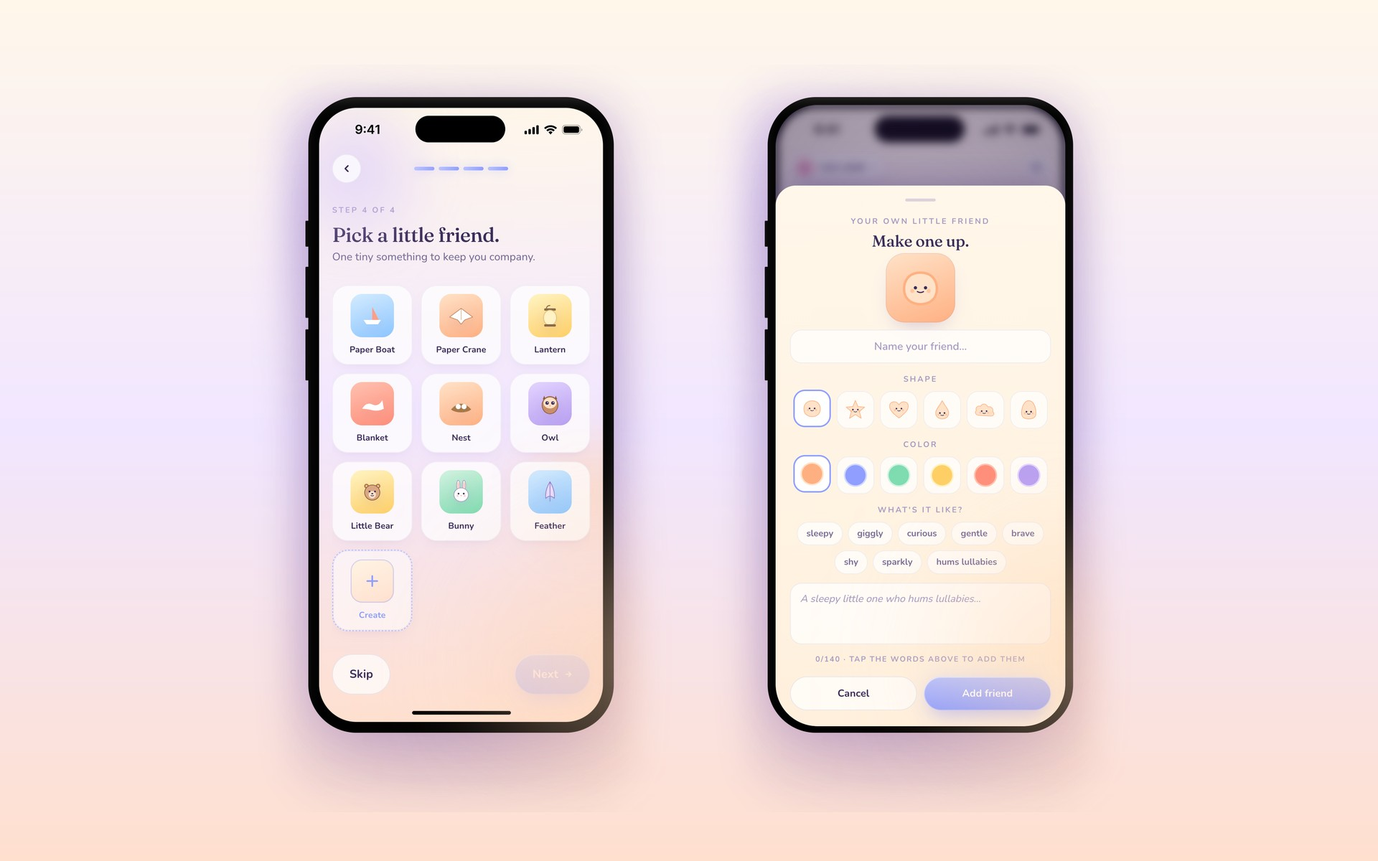
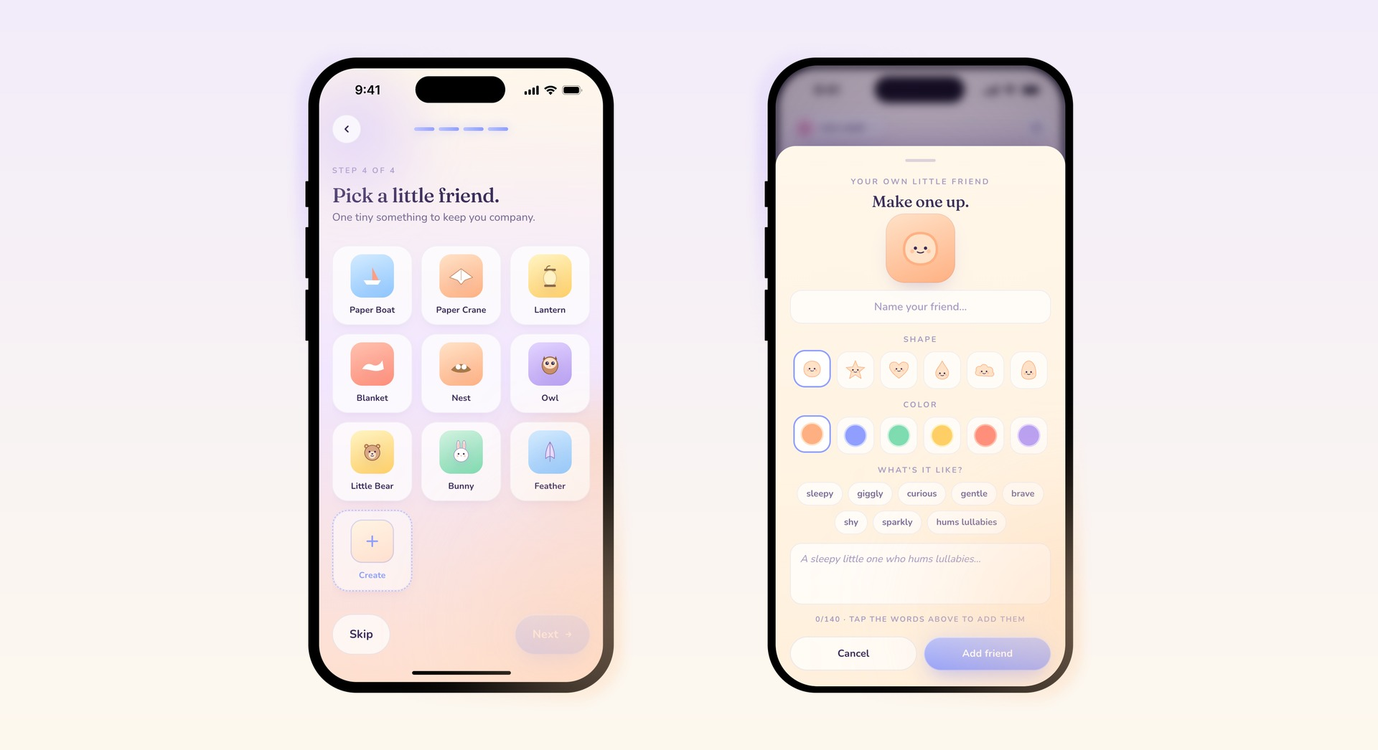
StoryBloom plates: quiet pale backdrop, nothing outside the bezel
Per Chang's reference: shadowless captures (the purple drop-shadow glow is
killed at the source), a tight mask at the bezel edge, and a barely-there
lavender-to-cream ground in place of the three-stop wash. Pixel-verified
clean 40px off every phone edge.

Changed region(s): [[0.0, 0.0612, 1.0, 1.0], [0.2188, 0.0612, 0.4688, 0.2141]]

diff --git a/CLAUDE.md b/CLAUDE.md
@@ -19,7 +19,7 @@ Product designer portfolio. Static HTML/CSS/JS site (no framework). Dark mode, m
 - `ticker.html` — TickerPulse case study. **No longer linked from the home grid as of 2026-06-14** (the home card was removed and its 5 final-design wireframes moved to the Play page). The page still exists and renders, but nothing links to it now (the only `ticker.html` reference left anywhere is its own `og:url` self-tag) — it's reachable only by direct URL. **User chose to leave it unlinked (2026-06-14)** — this is deliberate, not an oversight; do NOT re-link it from home or Play unless the user asks.
 - `nova.html` — UNICEF NOVA case study (linked from the home grid as of 2026-05-10). Visuals are pulled from the framer reference site at `aware-acknowledge-592065.framer.app/nova` and stored as `images/nova-*.png`. **Cover optimized 2026-06-20 (load-speed pass):** the cover is now `images/nova-hero-unigirl.jpg` (1920px, JPEG q90, 349KB) — it was `nova-hero-unigirl.png` at **10448px / 28MB(!)** but displays at ≤960px, so it was downscaled to ~1920px (= 2× the display size) and converted PNG→JPEG via `sips -Z 1920 -s format jpeg -s formatOptions 90`; the 28MB PNG was deleted and the `<img>` src updated. **Full-page image optimization 2026-06-21 (load-speed pass, per user "images majorly large, loading too long"):** the whole page's image payload went **~154.7MB → 14.6MB (−90.5%)**. Audit found ~40 images, most 3840–7680px wide (one 10180px / 16.5MB!) but displaying at ≤960px, most as PNGs of photographic AR/app screenshots. Applied a real-transparency check via PIL (`alpha.getextrema()[0] < 250` — `sips -g hasAlpha` only reports the *channel*, not whether any pixel is actually transparent; most were opaque RGBA), then: **opaque PNGs → JPEG @ ≤1920px q90** (27 files, refs in nova.html updated `.png`→`.jpg`, old PNGs deleted — e.g. `nova-companion-dashboard` 4.6MB/7680×4320 → 0.17MB); **genuinely-transparent → kept PNG, downscaled** (2 partner logos to 220px tall, 3 `nova-c2-*` phone screens, `nova-mascot-exploration` 16.5MB→0.76MB on its #E5E5E5 panel, 3 `nova-research-*`); **recompressed in place** the two heavy comps (`nova-comp-meta-orion.webp`, `nova-comp-apple-roadmap.jpeg`, ~2MB→~0.2MB each). Verified in preview: all 41 imgs load, 0 broken, logos/HUD-text/mascot all visually clean. **Cache caveat:** the 27 renamed JPGs get fresh URLs, but the in-place recompressed files (logos, c2, comps, mascot-exploration, research) keep their filenames, so returning visitors may serve stale cached big versions until cache expires — add `?v=` if that matters. **`og-image.jpg` kept** (it's the share card). **The "still oversized elsewhere" items were RESOLVED 2026-07-25:** `coffeecover.png` (20896px/3.9MB — so large PIL's decompression-bomb guard refuses it; opened with `Image.MAX_IMAGE_PIXELS = None` for the alpha check, converted via sips) → `coffeecover.jpg` 1920px q90 **0.13MB** (ref updated in coffee.html), and `pollen-cover.jpg` downscaled in place (see the pollen.html bullet). nova.html + coffee.html also got the below-fold `loading="lazy" decoding="async"` pass the same day (covers stay eager), and index.html's Homewise card img dropped its incorrect `loading="lazy"` (row-1 = eager per the card-image convention). Downscaling to ~1920px (= 2× the ≤960px display) is compatible with the [[feedback_image_quality]] JPEG-100/PNG-lossless rule — at 2× display size the quality loss is invisible; it only drops resolution the screen physically can't show.
 - `homewise.html` — Homewise case study (added 2026-06-12; clean URL `/homewise` via vercel.json rewrite). **Built to a NEW format per Chang's mentor — short storytelling + outcome-based motion artifacts, ending on the outcome** (see the case-study-format memory) — deliberately lighter than the older nova/pollen/ticker text template. Cover is `images/homewise-cover.jpg` (now contained via `.case-cover` — see the Case-study cover note) (the apples-to-apples quote-comparison screen framed on a sage Hearth background, a 20896px design-tool export downscaled to 2400px JPEG 100; replaced the original dashed-placeholder `.hw-cover` div, which was deleted from style.css 2026-06-12). Spine: Problem (VOC-grounded, expanded 2026-06-13 from a thin version: the layered pain — social trust → word of mouth runs out → communication grind → uncomparable quotes — plus a `.voc-quotes` block of 3 real interview quotes tagged Discovery/Transparency/Effort) → Insight (the "$250→$7,000 same-job quote spread" reframe, built as a real CSS graphic `.hw-spread`; body cites Interview #1, who described the product unprompted) → Solution (reshaped 2026-06-13 to a **TickerPulse-style conceptual block** — heading "An agent that scopes the job before it shops it" + a paragraph + a 3-step `.compare-table` (Scope / Match / Compare); no clips here) → **Final Design** (new `#final-design` section, added to the side-nav, that holds the 4 walkthrough clips in order: **define scope → one scope, every contractor (send) → find the contractor (system surfaces verified/recommended matches) → compare-&-approve (pick who to collaborate with)**; first clip's caption is the section's h2, the rest are `.deliverable` h4s, mirroring ticker's Final Design). The contractor-match beat was added 2026-06-12 after the user flagged it missing — it's the on-thesis trust step, mapping to VOC Finding 1 "Recommended by N Homewisers" social proof + Finding 4 "Verified by Homewise"; the separate quote-compare and approval-gate beats were merged into one. (Beat order was iterated live with the user 2026-06-12; the two shipped clips — homewise-scope.mp4, homewise-contractors.mp4 — lead as steps 1–2, the two placeholders follow.) → Hearth design system (a `hw-clip` **walkthrough clip** `images/homewise-hearth.mp4` of the live `/designsystem` page — replaced an earlier CSS color-swatch grid `.hw-hearth` 2026-06-12, whose CSS was deleted from style.css; the section keeps a short paragraph sourced from the repo's `DESIGN.md`: sans-only, shadowless, tri-role color story trust/caution/info, drift linter; the section also carries a `.hw-cta` button → the live `/designsystem` page) → **Collaboration** (`#collaboration`, in the side-nav, added 2026-06-13: the **code-first / no-Figma** story — the team worked closely with the PM and engineers, skipped Figma entirely, and designed in the codebase (a real React prototype on Hearth) instead of static mockups, then handed the dev team the repo itself so they could stand up their own front-end environment and integrate the real backend + APIs. Heading "We skipped Figma and built the design in code." Because of this, the project-details **Tools list deliberately omits Figma** (`React + Tailwind / Claude Code` only) — keep it that way for consistency. **Figma-MCP handoff paragraph added 2026-06-20:** a 2nd `<p>` says skipping Figma did not close the door on it — if the team needs a traditional Figma handoff, Chang can push the prototype from Claude Code into Figma via Figma's MCP server (kept capability-level in the prose, not naming the tool; grounded in research — `generate_figma_design`, the **Feb-17-2026 Claude-Code-exclusive** MCP tool that captures a running UI back into Figma as editable frames; the server is now bidirectional). HTML-only, no version bump. This does NOT contradict the Tools-omits-Figma rule: Figma still was not used to *build* Homewise; the MCP handoff is an on-demand option, not a tool in the stack. Carries a `.hw-cta` button → the repo `github.com/chang627627/homewise`. Note: linking the repo **inside a case study** like this is fine and intended — distinct from the work-card rule that *cards* never link to repos) → Reflection. **No separate Outcome section** (merged 2026-06-13): the outcome — an "A working prototype, not a mockup" closing `.deliverable` + the lone live-prototype CTA (`.hw-cta` → homewise-rust.vercel.app) — sits at the **end of the Final Design section**. (Copy consistently calls Homewise a *prototype*, not a product — it's what was handed to the front-end team to build the real product from; the repo is explicitly a no-backend prototype.) Final section order: Problem · Insight · Solution · **Process** · Final Design (ends on the outcome + live CTA) · Design System · Collaboration · Reflection. **Process section (`#process` + side-nav link, added 2026-06-19, sits after Solution):** the AI-era build-first story. Heading "I designed it by building it" + **one** paragraph (merged from two per user): the traditional discovery→mockups→handoff→build flow is dead, so Chang flipped the order — align with the PM, build, iterate on real feedback from team + users, with Claude Code as a thinking partner weighing each design exploration's pros/cons ("Less time making mockups, more time on the calls only a person can make"). Visualized by **two `.flow-chart` SVG blocks reusing Coffee Chat's `.flow-chart`/`.flow-svg`/`.flow-box`/`.flow-chart-tags` pattern (NO new CSS):** "The traditional process" (linear Discovery→Research→Mockups→Handoff→Build, ✕ tags) vs "How I work now" (Align with PM → Build → Feedback → Iterate, with a **right-angle, NOT curved** loop-back arrow Iterate→Build labeled "repeat until it is right", ✓ tags incl "Claude Code weighs each option"; the Build box is inline-highlighted brighter). **"chat with PM" was rejected as too casual → "Align with PM" (user) — keep it.** Closes with an inline credit to **Jenny Wen** (Head of Design for Claude at Anthropic), linked to her Lenny's Podcast episode "The design process is dead" (`lennysnewsletter.com/p/the-design-process-is-dead`); the inline `<a>` carries an inline `style` (color `var(--text)` + a 0.35-white underline) because case-study prose has no default inline-link affordance. **Mobile fix (applied 2026-06-19, supersedes the earlier "NOT yet fixed" caveat):** the SVG flow-charts scale to page width, so box labels dropped to ~3.3px on phones (same limitation as Coffee Chat's flow-charts). Fixed by wrapping each chart's `<svg>` in a `.flow-scroll` div and adding an inline `<style>` in homewise.html's `<head>` that, **on mobile (≤768px) only**, gives `#process ~ .flow-chart .flow-scroll` `overflow-x:auto` + `overflow-y:hidden` (the explicit `hidden` dodges the overflow-x-forces-overflow-y-auto gotcha) + a thin styled scrollbar, and holds `.flow-svg` at `min-width:800px`. Result: labels render ~9.2px and each chart scrolls horizontally **within its own strip** — the page itself does NOT overflow (verified), and the cut-off right edge + scrollbar thumb are the swipe affordance. **Desktop is untouched** (rules are media-gated, so `.flow-scroll` is a transparent passthrough div there and the SVG still fills the full card). **Homewise-scoped on purpose** (inline in homewise.html, NOT style.css), so Coffee Chat's shared `.flow-chart` is unaffected and still has the tiny-label issue. HTML-only — no style.css change, no version bump. **Process paragraph trimmed same day (per user "too long"): 144→102 words** — cut the prose that re-narrated the two charts' steps (the charts already show Discovery→…→Build and Align with PM→…→Iterate); kept the reframe, the "more time on the calls only a person can make" punchline, and a shortened Jenny Wen credit (dropped "at Anthropic"). Reflection carries two beats: a project insight ("Trust was the hard part, not the automation") + the Claude-Code-first-build/handoff takeaway. Content grounded in the repo's real VOC research (github.com/chang627627/homewise, `docs/` synthesis PDFs). **Clips complete (2026-06-12):** all 4 flow clips are live — `images/homewise-scope.mp4` ("Define the scope"), `images/homewise-contractors.mp4` ("One scope, every contractor"), `images/homewise-match.mp4` ("A match you can trust" — the 3-contractors-side-by-side matching screen with Verified/FLAGGED badges), `images/homewise-compare.mp4` ("Compare apples to apples, then you sign off" — the "Quotes are in" 3-bid same-scope comparison); no `.img-placeholder` boxes remain. A 5th `hw-clip`, `images/homewise-hearth.mp4`, sits in the Design System section (walkthrough of the live /designsystem page). Each live clip is wrapped in `<div class="hw-clip project-img-full">` containing the `<video loop muted playsinline preload="metadata">` plus a `.hw-clip-progress > .hw-clip-progress-bar` **playback progress bar** (thin 4px bar pinned to the video's bottom edge so viewers see start/end and position; the wrapper's `overflow:hidden` + radius clips it to the rounded corners). The inline script before the chat widget does two things per clip: drives the progress bar via rAF (tied to play/pause so it's smooth and resets cleanly on loop) and runs play.html's IntersectionObserver to defer play to the viewport. The `project-img-full` class on the **wrapper** gives the clip the same 24px caption→artifact / 96px artifact→next spacing as the case-study images (the `.img-placeholder` adjacency rules were added to style.css for the same reason). All 5 clips (4 flow + the Hearth walkthrough) use this exact `hw-clip` wrapper. **Clip conversion (no ffmpeg on this machine):** screen-recordings are H.264 Retina .mov (~3456px, ~40MB); transcode with Apple's `avconvert -s in.mov -o images/<name>.mp4 -p Preset1920x1080 --replace` (H.264, NOT the HEVC presets — poor browser support; → ~1920px, ~15MB, fast-start). Videos live in `images/`. **The home card links here** (`href="homewise.html"`) as of 2026-06-12, once all 5 clips landed (it previously pointed at the live demo). Homewise-specific CSS is the `hw-` block at the end of style.css; page chrome stays portfolio-dark while artifacts carry Hearth's warm palette. style.css bumped to v=115 on this page. **Enriched from the Demo Day pitch deck (2026-06-17, source `homewise-pitch.vercel.app` — the PM Accelerator AI Bootcamp deck for the same product):** added, without breaking the lean format — (a) a `.hw-stats` market-stat band in the Problem after `.voc-quotes` (label "Beyond our eight interviews"; 70% fear an unreliable contractor / 41% deceived by a provider / 33% delay repairs; source "Leaf Home / Morning Consult, 2025. HomeServe, 2025." — a dark panel, sibling of `.hw-spread`; the warm `#B98132` top-accent bars on each stat were **removed 2026-06-17** as meaningless decoration per the user, so the numbers stand alone; the `.hw-stats + .project-section { margin-top:96px }` rule re-asserts the Problem→Insight gap that `.voc-quotes + .project-section` used to give); (b) the trust split "14% trust review platforms, 61% word of mouth" woven into the Problem intro; (c) **[added then removed same day, 2026-06-17, per user — do NOT re-add]** a `.hw-flow` map (Photo → Scope → Match → Quotes → Booked) briefly opened Final Design above the first clip; the user deleted it (the four clips already walk the flow) and its CSS was removed; (d) verification specifics in the "match you can trust" caption (license, insurance, real permit history); (e) a Collaboration sentence naming what the prototype became (Claude vision, Shovels.ai permits, Twilio); (f) a Reflection beat "trust is a data problem as much as an AI one"; (g) sidebar engineers 5→7 (it was a 13-person team: 3 PM / 3 design / 7 eng — user kept the "Lead Product Designer" framing). **Deliberately skipped** to protect the lean format: the 3 pitch personas (David/Maya/Ray) and the full architecture diagram. The Insight copy was left as-is (already lands the symptom/cause point). style.css bumped v=160→v=161. **Problem + Solution rework + two videos (2026-06-17 — SUPERSEDES the stat-band "numbers stand alone", the 14%/61% "woven into the Problem intro", the `.hw-flow`, and the "All 5 clips" notes above):** (1) **Problem VOC → scannable pain-point cards** via a homewise-only modifier `.voc-quotes--pain` (so TickerPulse's shared `.voc-quotes` is untouched): each card leads with a white pain **headline** ("No way to know who to trust" / "No benchmark for a fair price" / "Comparing quotes is exhausting") and demotes the real interview quote below it to muted italic evidence (single-weight font, so the hierarchy is color+size, not bold). Intro lead-in changed "Three phrases" → "Three frustrations". (2) **Market stats are now THREE CARDS** (`.hw-stats` → `.hw-stat` styled exactly like the voc-quote cards: `var(--surface)` bg, 1px border, radius, 3-col grid, 44px figures). Iterated boxed-with-warm-`#B98132`-accent-bars → user called the bars "meaningless" (removed) and the box "ugly" → boxless editorial → **three cards** (final, per user "need three card for these"). Do NOT reintroduce the bars or the single box. (3) **Inline 14%/61% trust stat REMOVED** from the Problem prose (redundant with the surrounding word-of-mouth sentences; user: "either don't need the data or card it" → removed). (4) **Solution enriched** (grounded in the repo `github.com/chang627627/homewise`, whose README confirms a structured **state machine, not a chatbot**: Intake→Scope→Contractor compare→Quote compare→Booking→Completion): added a "two things make hiring hard, neither is the automation… so we built a structured workflow instead of a chatbot" rationale paragraph; refined the `.compare-table` to **4 stages — Scope / Match / Compare / Track** ("what the workflow does"); added a **"Why not just a marketplace"** contrast coda in `.solution-coda` (pulled to 44px top-margin via `.project-content .project-section.solution-coda` to outrank the `.compare-table + .project-section` 96px rule). **Trimmed 2026-06-18 (portfolio-audit pacing pass — shorten the runway to the Final Design clips):** the "two things" paragraph was cut from 4 sentences to 2 (kept the "structured workflow, not a chatbot" differentiator, dropped the table-overlapping recap), and the `.solution-coda` "Why not a marketplace" paragraph was **REMOVED** so the `.compare-table` now hands straight off to the Final Design clips. The `.solution-coda` CSS rule is now **unused** (left in style.css; restoring the coda is a one-line HTML re-add). The "What I did" bullets and the Problem intro were deliberately KEPT — on a close read they earn their length (distinct ownership beats / the layered-pain narrative), so the pacing fix was scoped to the Solution only. (5) **Final Design got a 5th flow clip** `images/homewise-track.mp4` ("One place, from booking to done", after Compare) — the **prototype's** dashboard status-tracking flow — so there are now **6 `hw-clip` videos (5 flow + the Hearth walkthrough)**. (6) **Collaboration got the live/backend demo** `images/homewise-live.mp4` — the dev team's **shipped build** (~4-min walkthrough), captioned "See it running for real", embedded **click-to-play** (`controls preload="none" poster="images/homewise-live-poster.jpg" playsinline`), NOT the looping `hw-clip` treatment, and **excluded from the clip auto-play script** (which targets `video[preload="metadata"]` only) so its 39MB never auto-loads. Poster grabbed via `qlmanage -t`. Its on-screen account/address are **fake demo data (confirmed by user)** — no real PII. **Deliberate split (per user):** the Track clip (prototype) lives in Final Design; the live demo (real backend) lives in Collaboration as the "what shipped" proof. **Provenance for honesty:** Chang built the front-end prototype + data structures in code; the dev team built the real product on it (front-end eng wired live data/APIs onto his structures, back-end eng built the backend) — so the live demo is his design, shipped. **Video transcode:** `avconvert -s in -o images/<name>.mp4 -p Preset1920x1080 --replace`; macOS Screen Recording filenames use a narrow no-break space before AM/PM, so match the source with a glob, not a literal path. style.css now at **v=167** across all 8 pages. **Copy polish 2026-06-27 (per user, HTML-only, no version bump — SUPERSEDES the Solution/Collaboration/Reflection wording above):** (1) **Solution** — the "structured workflow, not a chatbot" line now justifies the call AND claims ownership, and is **white-highlighted**: `<span style="color: var(--text)">A chatbot would leave them guessing at both, so I pushed for a structured workflow instead.</span>` (the white span pops against the `#888` `.project-section p` body; in user shorthand "highlight X" = make X white, NOT rewrite it). (2) **Collaboration is now ONE merged, shortened paragraph** (was two): code-first build + repo handoff + the Figma-MCP option live in a single `<p>`; the 2026-06-17 "(e)" sentence naming what the prototype became (Claude vision / Shovels.ai permits / Twilio) was **DELETED per user** — those tool names no longer appear anywhere on the page. (3) **Reflection shortened to ONE paragraph** (was two): keeps the trust-is-the-hard-part + trust-is-a-data-problem beats and the Claude-Code-build / "It was the first version of it" close; dropped the "were not features… earned the right to act" line and the redundant handoff recap. These edits came out of a multi-lens gap review of the case study (the user asked "what's missing"); the other flagged gaps — a real research artifact for the $250→$7,000 spread, and a qualitative "did it land" validation beat — were surfaced but NOT done (both need real content only Chang has; **declined to fabricate a usability-test homeowner quote** for the validation beat — fake research evidence on a hiring portfolio backfires if probed in an interview). **(4) Process section grounded to Homewise 2026-06-27 (review gap #4, option b — kept placement, added one sentence):** after the build-first method statement, added "Homewise especially called for this, because it is one connected workflow where a single change ripples through scope, matching, quotes, and tracking, so I had to build it and validate it early rather than trust static mocks that could not show whether the whole thing held together." Per the user's rationale (interdependent state-machine workflow → validate early by building, not isolated mocks). Converts Process from a generic "design process is dead" manifesto into a why-build-first-*here* argument; flow-charts + placement unchanged. The review's two unactioned options — move Process *after* Final Design (option a), or add the *agent's scope-generation/approval-gates can't be felt in a static mock* angle — were not taken; the connected-workflow rationale was the user's pick. **(5) Sub-heading scannability pass 2026-06-27 (per user):** two h2s reworded so each carries its own beat on a skim (SUPERSEDES the heading strings quoted above). Design System: "Hearth, the warmth at the center of every home" → **"Hearth, one warm system across every screen"** (the old metaphor was about the product's *domain*, didn't signal "design system" when skimmed — it was the one heading that failed the scan test). Process: "I designed it by building it" → **"I flipped the process and designed by building"** (elaborates the reframe and echoes the body's "I flipped the order"). The other ~10 headings were judged already-scannable and left as-is — they're insight-statements, not generic labels, so skimming the h2 stack alone tells the whole story. **(6) Process — PM/PRD collaboration beat added, then re-tightened 2026-06-27 (per user; SUPERSEDES item (4)'s quoted sentence and the 144→102-word note for the *current* Process paragraph text):** the user asked what real PM↔designer collaboration looks like (the PRD as the shared artifact) so it could be written into Process. Added a condensed PRD beat that grounds the otherwise-vague **"Align with PM"** flow box: *"Each loop starts from the PM's PRD, our shared intent: the problem, the users, and the metrics to move. The prototype exposes gaps the document cannot, which feed back into the PRD."* The bidirectional loop (prototype surfaces gaps → back into the PRD) is the deliberate sophistication, and it counters the traditional-chart's own "spec thrown over the wall" critique. Adding it pushed the paragraph to ~155 words; user said "way too long," so the **whole paragraph was rewritten to ~124 words**, cutting the parts the two flow-charts already show: "In 2026 that is backwards", the "build first, then iterate on real feedback, with Claude Code weighing each exploration" mechanics (= the "How I work now" chart's Build→Feedback→Iterate + "Claude Code weighs each option" tag), and the "and a build-and-feedback loop replaces it" tail on the Jenny Wen credit. New opener is "Engineering used to be the slow part…"; the connected-workflow sentence is now "Homewise especially needed this, since one change ripples through scope, matching, quotes, and tracking, so I validated it live." (reworded from item (4), same rationale). KEPT the "more time on the calls only a person can make" punchline + the Jenny Wen link. Flow-charts, the "Align with PM" box label, and placement all unchanged — the PRD lives in prose, not the SVG. **Committed + pushed to main (commit c5e3236) — Vercel auto-deploys.** HTML-only, no version bump. Takeaway: the PRD/PM-collaboration belongs in **Process** (it's the input to the build loop), carried in prose with the flow box untouched, and Process stays lean (~120 words). **Mentor-framework pass 2026-07-28 (HTML-only, style.css untouched, no version bump).** Audited against the same framework the deck was rebuilt to (see homewiseslide.html). Verdict: the page had no stakes claim, no beat saying the problem was HARD to design, and the word "principle" appeared zero times — yet all that material was already written, scattered. So the fix was resequencing, not new prose. Shipped: **(1) new `#complexity` section between Insight and Solution** ("Why this is hard" / h2 **promoted verbatim from the Reflection**, "Trust was the hard part, not the automation") holding 3 `.problem-card`s — a user problem (from the old Solution ¶2), a data problem (from the Reflection), one connected system (from Process). Reuses `.problem-grid`/`.problem-card`, so **zero new CSS**; its `+ .project-section { margin-top:96px }` rule supplies the gap to Solution. Side-nav gained a matching `#complexity` link (now 9 links). Process and Reflection were shortened so they stop introducing beats the new section now owns, and **Reflection's h2 became "The design was not a picture of the product"** (lifted from its own unheaded second beat) since its old h2 moved. **(2) The 70/41/33 `.hw-stats` band now LEADS the Problem**, relabelled from "Beyond our eight interviews" (which demoted it to an appendix) to the claim "Most homeowners already expect this to go wrong", so the interviews read as the explanation of a market-scale problem. **(3) Workflow de-duplicated**: `.compare-table`'s column is now "Why the stage exists" with each cell leading with the failure the stage prevents; it previously shared literal strings with captions 400px below. Outcome lost its workflow restatement, and the live-demo caption states the runtime ("four minutes" — measured 4:06 off `videoWidth`-style metadata, not guessed). **(4) "What I did" bullet 1 stopped spoiling the Insight** (dropped "including the reframe from price to scope", which named the Insight's payload 42 lines early). **Three self-inflicted regressions caught and fixed during the pass, all worth remembering:** (a) **NEVER nest an `hw-` block inside a `.project-section`** — the generic `.project-section p { font-size:16px; margin:0 }` is specificity (0,1,1) and outranks `.hw-stats-label`/`.hw-stats-source` (0,1,0), which silently flattened them to 16px with both 24px margins zeroed. `.hw-stats` must stay a top-level sibling; the prose after it carries an inline `margin-top:40px` to beat `.hw-stats + .project-section { margin-top:96px }`. (b) applying several recommendations independently put **"ratings can be gamed" on the page four times** (Problem setup + principle + table cell + Match caption) — the payoff now lands once, in the Match caption, at the screen that resolves it. (c) the audit's rec-2 **named principles block was built then DELETED by the user** ("feel too wordy"): the three rules (structured/verified/recommended, not X) now live folded into the Solution paragraph as prose — "Every step stays checkable: the scope is editable before it goes out, the trust signals are public records rather than ratings, and the agent recommends but never books." **Do NOT re-add a stated-principles list to this page**; the deck keeps its Design-statement slide, and that divergence is intended. **Hero sub reworked 2026-07-28 (audit rec 7, per user):** now "AI command center for homeowners. A third of them put off repairs rather than face hiring someone. It scopes the job, compares the bids, and waits for your approval." The opening clause stays verbatim per the card-continuity rule; the tail leads with the **stake** (the sourced 33% stat) instead of opening on mechanics that echoed the home card. **Deviation from the audit, deliberate:** the audit specified dropping the mechanics entirely, on the stated grounds that they were "restated at line 198" — but the SAME session's Solution trim deleted that sentence, so `defined scope of work` now appears zero times on the page and **homewise.html has no Overview section**, making the hero sub the only plain statement of what the product does. A naked swap would have left the page never saying it. So a compressed mechanic was kept. **The four meta/og/twitter descriptions were deliberately NOT changed** — they are search and social-preview copy, where a bare stat without context is worse than a plain description of the product. **General lesson: an audit recommendation's rationale can be invalidated by a later edit in the same session; re-check the premise before applying a queued recommendation.** **HITL naming pass 2026-07-31 (per user, from a Substack HITL-design essay):** the page and deck now NAME the pattern the product already implements — "human-in-the-loop" appears exactly twice on the site: in the Solution's white-highlighted sentence (recorded frozen in the audit kills above; **amended with explicit user approval** to "structured, human-in-the-loop workflow") and in the deck's The-human-signs-off card ("Human in the loop, never an autopilot default"). The "Every step stays checkable" clause was recut to the essay's two-gate frame — "you approve the scope before it shops and the hire before it books" (gate-before-the-run + gate-after-the-draft; Homewise already implemented both gates, the page just never claimed the structure). The essay's checklists, autonomy-ladder taxonomy, and edit-rate metric were deliberately NOT imported (no data for the metric — fabrication ban). **A separate HITL section was considered and REJECTED** (user asked 2026-07-31): it is the same shape as the deleted named-principles list, would make an 11th section against the settled 10-section spine, and would centralize an argument that currently pays off at the exact screens proving it. Also note `.project-list` is wrong for any inline rule set here — its `li { padding-left:20px }` pushes text 20px out of alignment with the section's body copy. Body copy ended at ~1432 words (from 1397). **Final Design tradeoff blocks (2026-08-11, per user "do exactly the slides did"; style.css v=229→v=230 across all 9 pages):** each of the five Final Design clips is followed by a `.hw-trade` block in the DECK'S exact grammar — "The tradeoff" eyebrow (label token), two rule-topped `.hw-trade-cols` columns, `.hw-tick--bad/--good` circles in **Hearth pastels** (ember `#F5E4CE`/`#8E601E`, sage `#E2E8DC`/`#4F6942` — per the hw-artifacts-carry-Hearth convention; hairlines stay the page's white-alpha), `.hw-trade-shot` evidence crop, receipt below; mobile stacks to 1 column. Copy is deck-verbatim with ONE deliberate deviation: the match ✓ says "its sources sitting right there in the rows" without re-enumerating license/insurance/permits, because the page's own caption directly above already lists them (the deck's body doesn't). A first port using `.iter-example` (pill-in-figcaption format) was built and replaced the same day per user — the page must mirror the deck's format, not adapt it. **The match caption also dropped "a match confidence"** (honesty fix: the metric exists only in an orphaned component at HEAD and the clip never shows one), and the track caption is "One place, from booking to done" with the original body (a briefly-shipped "from first quote to done" widening was reverted when the user caught its tradeoff arguing about the pre-booking quote-wait screen under the post-booking dashboard clip).
-- `storybloom.html` — **StoryBloom case study (added 2026-08-16, per user "make a case study of github.com/chang627627/StoryBloom, /storybloom but do not connect"). DELIBERATELY UNLINKED: nothing on the site points to it** — not the home grid (the StoryBloom card keeps linking to the live app), not sitemap.xml, not llms.txt, not api/chat.js (mentioning it there would advertise the URL, i.e. connect it). Reachable only by URL via a `/storybloom` rewrite in vercel.json; canonical + og:url are the CLEAN `/storybloom` (coffeeslide precedent, since no internal links exist to prefer the .html form); no noindex (deck precedent, not the ticker one) so shared links unfurl. **When the user says to connect it:** point the home card's href at `storybloom.html`, add to sitemap + llms.txt + the chat prompt, and re-check the hero-sub continuity rule. Structure is the standard case-study skeleton (nav, `.case-cover` = `images/storybloom-card.png?v=4` reused from the home card, hero, side-nav, `.project-details`, sections, back-to-top): side-nav = Problem · Insight · The ritual · One night · Design language · Principles · The goodnight · Reflection; reuses `.impact-grid.grid-2x2` (2 award cards: Red Dot Winner 2026 → the Drive certificate link the StoryBloom app itself uses; NYPDA Silver 2026 → nydesignawards.com/winner-info.php?id=4480), `.problem-grid--2col` (the 4 principles from the Red Dot deck: Invisible AI / Nonverbal first / One of each / Bedtime, not engagement), `.deliverable` captions, and `.hw-cta` → storybloom.tech/app at the end of The goodnight (end-on-outcome). Hero sub opens with the card copy verbatim per the continuity rule. **Narrative is transcribed from the repo's own `_private/red-dot.html` award deck** (problem/insight/ritual/worked-example/design-language/principles/keep) — not invented. **Honesty framing, deliberate:** the One-night section states plainly that ten handwritten templates, two per dreamland, stand in for the model in the working build (the StoryBloom repo's own CLAUDE.md documents the AI framing as product vision; the portfolio's prototype-not-product standard outranks the app's treat-as-real-product rule). Reflection h2 "The design work was the input, not the output". **Page chrome was assembled by copying homewise.html verbatim** — head boilerplate pattern + lines 498-761 (back-to-top, `.page-end` footer, main script with sweep + scroll-spy) and 793-end (chat widget + px-dissolve), EXCLUDING homewise's clip-autoplay script (763-791); the byte-identical shared blocks stay in sync with the homewise copy. No style.css change, no version bump (v=235 links). **The 4 artifacts (`images/storybloom-{picks,night,goodnight,keep}.jpg`, 1920px JPEG q90) are REAL captures of the app, and the pipeline is reusable:** clone the StoryBloom repo to scratch, write `capture.html` = app/index.html + an early-head patch (localStorage star-seeding for the constellation shot, transparent body, chrome hidden, device-wrap scale killed) + a `?shot=` driver before `</body>` (clicks the splash FIRST to consume its 2.8s auto-advance guard — otherwise the splash timer yanks any navigated screen back to Welcome — then sets state/go(n)/setStep(n); the story shot pins `Math.random=()=>0` for the "Goodnight, moon garden" variant and sets lav/rain/tangled/crane per the deck's worked example), serve the clone with python http.server, capture each shot with headless Chrome `--window-size=620,1100 --force-device-scale-factor=2 --default-background-color=00000000 --virtual-time-budget=9000`, then PIL-composite the fixed-geometry crops (bezel at (193,220)-(1047,1980) @2x) onto a recreated app-wash gradient (#fff7ea→#f1e6ff→#ffe0cf). **Gotcha that cost a redo: the crop carries the app's ambient background blobs at low alpha, which tint differently against the recreated wash and draw a visible rectangular seam around every phone — multiply the alpha by a feathered rounded-rect mask (bezel +70/+50/+200px, GaussianBlur 45) so only phone + shadow survive.** Verified desktop + 375 (no overflow, cover insets to 327px, side-nav/back-to-top/footer-big hidden), scroll-spy active, zero console errors, all images serve. **Full-screen-coverage pass same day (per user "please include all the phone screens in these slides", with the two award-deck PDFs from ~/Downloads as the reference):** the page now shows EVERY phone screen from the repo's App Walkthrough deck (the Case Study deck has no phone screens, it is diagrammatic). Four new captures via the same harness (`createfriend` = openCreateFriend(), `shelf` = openShelf() with seeded stars + the app's own demo shelf content, `settings` = openSettings(), `settings2` = openSettings() then sheet scrollTop to bottom) → three new artifacts + one regenerated: `storybloom-welcome.jpg` (invitation single, opens The ritual), `storybloom-friends.jpg` (friend picker + Create-a-Friend sheet, after the picks), `storybloom-keep.jpg` REGENERATED as a 2-up (constellation welcome + Lily's shelf — the old single-phone version is gone), `storybloom-parents.jpg` (both settings positions). **New 9th section `#parent-side` ("The parent side" / "Quiet controls for the grown-up") between The goodnight and Reflection** — prose mirrors the settings sheet's own hint labels (name "used in the story", age "tailors the gentle words", narrator/speed, bedtime toggles, theme chips, skip-scary, all-local no-account) rather than claiming mechanics beyond them; the live CTA stays LAST before Reflection (end-on-outcome preserved). Side-nav is 9 links. Page total: 8 images. **PDF-reading note for this machine: no poppler and no PyObjC, so the Read tool cannot render PDFs — compile a ~40-line swiftc PDFKit renderer (`pdfrender <pdf> <outdir> <scale> [first] [last]`, pattern lives in the session transcript) and Read the PNGs; the harness ALSO misreports PDF page counts wildly (claimed 645/178, real 8/7), so trust PDFKit's pageCount, not the system-reminder.**
+- `storybloom.html` — **StoryBloom case study (added 2026-08-16, per user "make a case study of github.com/chang627627/StoryBloom, /storybloom but do not connect"). DELIBERATELY UNLINKED: nothing on the site points to it** — not the home grid (the StoryBloom card keeps linking to the live app), not sitemap.xml, not llms.txt, not api/chat.js (mentioning it there would advertise the URL, i.e. connect it). Reachable only by URL via a `/storybloom` rewrite in vercel.json; canonical + og:url are the CLEAN `/storybloom` (coffeeslide precedent, since no internal links exist to prefer the .html form); no noindex (deck precedent, not the ticker one) so shared links unfurl. **When the user says to connect it:** point the home card's href at `storybloom.html`, add to sitemap + llms.txt + the chat prompt, and re-check the hero-sub continuity rule. Structure is the standard case-study skeleton (nav, `.case-cover` = `images/storybloom-card.png?v=4` reused from the home card, hero, side-nav, `.project-details`, sections, back-to-top): side-nav = Problem · Insight · The ritual · One night · Design language · Principles · The goodnight · Reflection; reuses `.impact-grid.grid-2x2` (2 award cards: Red Dot Winner 2026 → the Drive certificate link the StoryBloom app itself uses; NYPDA Silver 2026 → nydesignawards.com/winner-info.php?id=4480), `.problem-grid--2col` (the 4 principles from the Red Dot deck: Invisible AI / Nonverbal first / One of each / Bedtime, not engagement), `.deliverable` captions, and `.hw-cta` → storybloom.tech/app at the end of The goodnight (end-on-outcome). Hero sub opens with the card copy verbatim per the continuity rule. **Narrative is transcribed from the repo's own `_private/red-dot.html` award deck** (problem/insight/ritual/worked-example/design-language/principles/keep) — not invented. **Honesty framing, deliberate:** the One-night section states plainly that ten handwritten templates, two per dreamland, stand in for the model in the working build (the StoryBloom repo's own CLAUDE.md documents the AI framing as product vision; the portfolio's prototype-not-product standard outranks the app's treat-as-real-product rule). Reflection h2 "The design work was the input, not the output". **Page chrome was assembled by copying homewise.html verbatim** — head boilerplate pattern + lines 498-761 (back-to-top, `.page-end` footer, main script with sweep + scroll-spy) and 793-end (chat widget + px-dissolve), EXCLUDING homewise's clip-autoplay script (763-791); the byte-identical shared blocks stay in sync with the homewise copy. No style.css change, no version bump (v=235 links). **The 4 artifacts (`images/storybloom-{picks,night,goodnight,keep}.jpg`, 1920px JPEG q90) are REAL captures of the app, and the pipeline is reusable:** clone the StoryBloom repo to scratch, write `capture.html` = app/index.html + an early-head patch (localStorage star-seeding for the constellation shot, transparent body, chrome hidden, device-wrap scale killed) + a `?shot=` driver before `</body>` (clicks the splash FIRST to consume its 2.8s auto-advance guard — otherwise the splash timer yanks any navigated screen back to Welcome — then sets state/go(n)/setStep(n); the story shot pins `Math.random=()=>0` for the "Goodnight, moon garden" variant and sets lav/rain/tangled/crane per the deck's worked example), serve the clone with python http.server, capture each shot with headless Chrome `--window-size=620,1100 --force-device-scale-factor=2 --default-background-color=00000000 --virtual-time-budget=9000`, then PIL-composite the fixed-geometry crops (bezel at (193,220)-(1047,1980) @2x) onto a recreated app-wash gradient (#fff7ea→#f1e6ff→#ffe0cf). **Plate decision, iterated three times 2026-08-16 and now SETTLED per the user's pasted reference (their own card-cover style): phones sit on a BARELY-THERE pale backdrop (vertical (242,236,250)→(253,248,238)), captures take `.phone-bezel { filter: none !important }` so the app's purple drop-shadow glow is gone at the source, and the alpha mask is TIGHT (bezel ±24px, GaussianBlur 14) — NOTHING renders outside the bezel, verified by pixel-sampling 40px off the phone edge (byte-identical to the far corner). Two rejected versions, do not revive: (1) the app's own three-stop wash #fff7ea→#f1e6ff→#ffe0cf ('too much light... do not have other gradient layer'), (2) flat #0a0a0a page-matching plates, where the bezel drop-shadow's rgba(180,130,220) layer read as a light halo ('outside of the screen there are some gradient. do not need these'). The original gotcha still applies in spirit: the raw crop carries the app's ambient background blobs at low alpha, and only the feathered mask keeps them out of the plate.** Verified desktop + 375 (no overflow, cover insets to 327px, side-nav/back-to-top/footer-big hidden), scroll-spy active, zero console errors, all images serve. **Full-screen-coverage pass same day (per user "please include all the phone screens in these slides", with the two award-deck PDFs from ~/Downloads as the reference):** the page now shows EVERY phone screen from the repo's App Walkthrough deck (the Case Study deck has no phone screens, it is diagrammatic). Four new captures via the same harness (`createfriend` = openCreateFriend(), `shelf` = openShelf() with seeded stars + the app's own demo shelf content, `settings` = openSettings(), `settings2` = openSettings() then sheet scrollTop to bottom) → three new artifacts + one regenerated: `storybloom-welcome.jpg` (invitation single, opens The ritual), `storybloom-friends.jpg` (friend picker + Create-a-Friend sheet, after the picks), `storybloom-keep.jpg` REGENERATED as a 2-up (constellation welcome + Lily's shelf — the old single-phone version is gone), `storybloom-parents.jpg` (both settings positions). **New 9th section `#parent-side` ("The parent side" / "Quiet controls for the grown-up") between The goodnight and Reflection** — prose mirrors the settings sheet's own hint labels (name "used in the story", age "tailors the gentle words", narrator/speed, bedtime toggles, theme chips, skip-scary, all-local no-account) rather than claiming mechanics beyond them; the live CTA stays LAST before Reflection (end-on-outcome preserved). Side-nav is 9 links. Page total: 8 images. **PDF-reading note for this machine: no poppler and no PyObjC, so the Read tool cannot render PDFs — compile a ~40-line swiftc PDFKit renderer (`pdfrender <pdf> <outdir> <scale> [first] [last]`, pattern lives in the session transcript) and Read the PNGs; the harness ALSO misreports PDF page counts wildly (claimed 645/178, real 8/7), so trust PDFKit's pageCount, not the system-reminder.**
 - `404.html` — **Custom 404 page (added 2026-08-01, Mobbin interaction/visual research pass; Vercel serves `/404.html` automatically on static deployments).** Site-grammar error page: standard nav, `.hero` + `.hero-orbs--g2` gradient, plain-text h1 "Lost in the fog." (callback to the old © line; NO per-glyph machinery — a bare h1 inherits the hero type styles fine), sub "This page doesn't exist. The work does.", two `.status-tag` pills (Back to the work → /index.html, Say hello → mailto) in a page-local `.notfound-tags` flex row, and the same gated Lightfall+tilt script as home minus the type machinery. **All asset/nav hrefs are ABSOLUTE ("/style.css?v=224", "/index.html") on purpose — a 404 renders at arbitrary broken URLs, so relative paths would 404 too.** `noindex`, NOT in sitemap.xml, deliberately NO chat widget and NO footer block (single-viewport utility page). GA included per convention.
 - `style.css` — Shared styles across all pages
 - `api/chat.js` — Vercel serverless function behind the chat widget (Claude Haiku 4.5). Its `SYSTEM_PROMPT` embeds the resume + a PORTFOLIO PROJECTS list. **When the resume, experience, awards, or project lineup change, update this prompt too** — it silently served year-old facts until the 2026-06-11 refresh. Not runnable on the local python preview (`/api/chat` 404s locally); test against production after deploy. **The 2026-06-15 TickerPulse open thread was CLOSED 2026-07-26** (improvement-research P2): its PORTFOLIO entry now says the wireframes are in a Play-page carousel and explicitly tells the model not to direct visitors to a case-study page. **Endpoint hardened the same day:** CORS wildcard replaced with an origin allowlist (www.chang-mou.com / chang-mou.com / chang-mou-portfolio.vercel.app; requests with a foreign Origin get 403), message capped at 2000 chars, history sanitized (user/assistant roles only, 2000-char cap per item — blocks role injection), and a best-effort in-memory rate limit (20 req / 5 min per IP per warm instance, `globalThis.__chatRate`).
